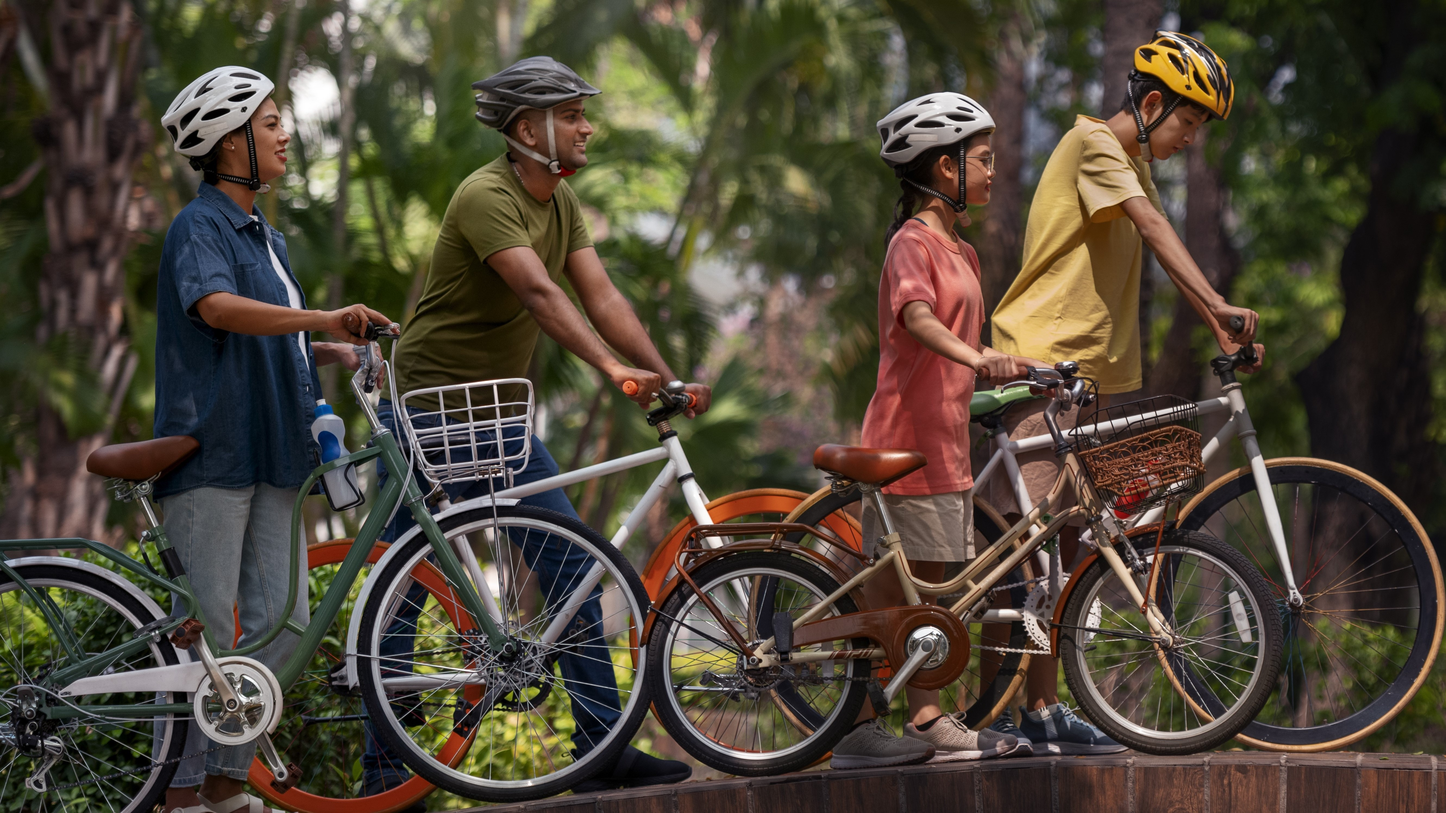
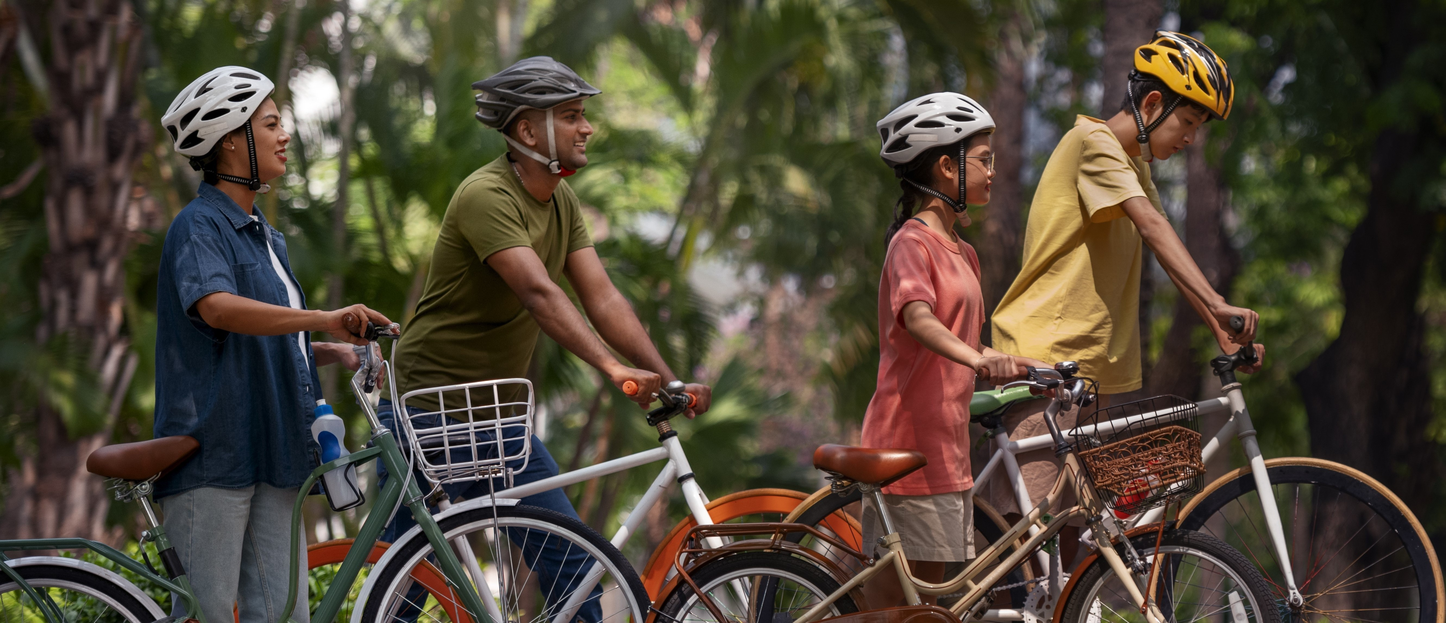
js edit

diff --git a/assets/js/leisure.js b/assets/js/leisure.js
@@ -1,5 +1,14 @@
 // Leisure page JavaScript
 
+// Category mapping for filters
+const categoryMapping = {
+    'all': 'all',
+    'water': 'Water Sports',
+    'adventure': 'Adventure',
+    'crafts': 'Relaxing',
+    'outdoor': 'Outdoor'
+};
+
 let currentLeisurePrice = 0;
 let currentLeisureActivity = '';
 let selectedActivityDate = '';
@@ -51,6 +60,21 @@ function updateLeisureTotal() {
     }
 }
 
+// Filter cards based on selected category
+function filterCards(filter) {
+    const cards = document.querySelectorAll('.col-md-6.col-lg-4.mb-4');
+    const targetCategory = categoryMapping[filter];
+
+    cards.forEach(card => {
+        const cardCategory = card.getAttribute('data-category');
+        if (filter === 'all' || cardCategory === targetCategory) {
+            card.style.display = 'block';
+        } else {
+            card.style.display = 'none';
+        }
+    });
+}
+
 // Initialize leisure page
 document.addEventListener('DOMContentLoaded', function() {
     // Update total when participants change
@@ -58,6 +82,28 @@ document.addEventListener('DOMContentLoaded', function() {
     if (participantsSelect) {
         participantsSelect.addEventListener('change', updateLeisureTotal);
     }
+
+    // Add event listeners to filter buttons
+    const filterButtons = document.querySelectorAll('[data-filter]');
+    filterButtons.forEach(button => {
+        button.addEventListener('click', function() {
+            // Remove active class from all buttons
+            filterButtons.forEach(btn => {
+                btn.classList.remove('active');
+                btn.classList.add('btn-outline-primary');
+                btn.classList.remove('btn-primary');
+            });
+
+            // Add active class to clicked button
+            this.classList.add('active');
+            this.classList.remove('btn-outline-primary');
+            this.classList.add('btn-primary');
+
+            // Filter cards
+            const filter = this.getAttribute('data-filter');
+            filterCards(filter);
+        });
+    });
 });
 
 // Add leisure to cart

diff --git a/pages/leisure.php b/pages/leisure.php
@@ -37,99 +37,110 @@
             color: #198754;
             width: 20px;
         }
+        /* Hero container */
+        .hero {
+            position: relative;
+        }
+
+        /* Make carousel images cover and have responsive heights */
+        .hero .carousel-inner img {
+            width: 100%;
+            height: 75vh;              /* desktop/tablet default */
+            object-fit: cover;
+        }
+        @media (max-width: 768px) {
+            .hero .carousel-inner img {
+            height: 40vh;            /* smaller height for phones */
+            }
+        }
+
+        /* Overlay panel centered on the images */
+        .hero-overlay {
+            position: absolute;
+            top: 50%;
+            left: 50%;
+            transform: translate(-50%, -50%);
+            z-index: 10;
+            width: calc(100% - 2rem);
+            max-width: 980px;
+            padding: 1rem 1.25rem;
+            border-radius: 0.5rem;
+            text-align: center;
+        }
+
+        /* Responsive title and subtitle using clamp() */
+        .hero-title {
+            color: #fff;
+            margin: 0;
+            font-weight: 700;
+            line-height: 1.05;
+            font-size: clamp(1.4rem, 6vw, 2.8rem); /* scales between phone and desktop */
+        }
+
+        .hero-sub {
+            color: #fff;
+            margin-top: 0.5rem;
+            font-size: clamp(0.95rem, 3.5vw, 1.25rem);
+        }
+
+        /* Slight shadow for carousel controls so they remain visible */
+        .carousel-control-prev-icon,
+        .carousel-control-next-icon {
+            filter: drop-shadow(0 2px 4px rgba(0,0,0,0.5));
+        }
+
+        /* Optional: reduce overlay padding on very small screens */
+        @media (max-width: 400px) {
+            .hero-overlay {
+            padding: 0.6rem 0.8rem;
+            }
+        }
     </style>
 </head>
 <body>
     <?php include '../includes/navbar.php'; ?>
     
-    <!-- Hero Section -->
-    <section id="carouselExampleAutoplaying" class="carousel slide" data-bs-ride="carousel">
-        <div class="carousel-inner">
-            <div class="carousel-item active">
-                <img src="../assets/images/leisure/1.jpg" class="d-block w-100 vh-50" alt="boat ride">
-                <div class="carousel-caption position-absolute top-50 start-50 translate-middle w-75">
-                    <div class="text-center">
-                        <h1 class="display-4 fw-bold mb-3 d-none d-md-block">
-                            <i class="fas fa-umbrella-beach"></i>Leisure Activities
-                        </h1>
-                        <h2 class="fw-bold mb-2 d-md-none">
-                            <i class="fas fa-umbrella-beach"></i>Leisure Activities
-                        </h2>
-                        <p class="lead mb-4 d-none d-md-block">Book exciting adventures and leisure activities</p>
-                        <p class="mb-3 d-md-none">Book exciting adventures and leisure activities</p>
-                    </div>
-                </div>
-            </div>
-            <div class="carousel-item">
-                <img src="../assets/images/leisure/2.jpg" class="d-block w-100 vh-50" alt="Cycling">
-                <div class="carousel-caption position-absolute top-50 start-50 translate-middle w-75">
-                    <div class="text-center">
-                        <h1 class="display-4 fw-bold mb-3 d-none d-md-block">
-                            <i class="fas fa-umbrella-beach"></i>Leisure Activities
-                        </h1>
-                        <h2 class="fw-bold mb-2 d-md-none">
-                            <i class="fas fa-umbrella-beach"></i>Leisure Activities
-                        </h2>
-                        <p class="lead mb-4 d-none d-md-block">Book exciting adventures and leisure activities</p>
-                        <p class="mb-3 d-md-none">Book exciting adventures and leisure activities</p>
-                    </div>
-                </div>
-            </div>
-            <div class="carousel-item">
-                <img src="../assets/images/leisure/3.jpg" class="d-block w-100 vh-50" alt="Camping">
-                <div class="carousel-caption position-absolute top-50 start-50 translate-middle w-75">
-                    <div class="text-center">
-                        <h1 class="display-4 fw-bold mb-3 d-none d-md-block">
-                            <i class="fas fa-umbrella-beach"></i>Leisure Activities
-                        </h1>
-                        <h2 class="fw-bold mb-2 d-md-none">
-                            <i class="fas fa-umbrella-beach"></i>Leisure Activities
-                        </h2>
-                        <p class="lead mb-4 d-none d-md-block">Book exciting adventures and leisure activities</p>
-                        <p class="mb-3 d-md-none">Book exciting adventures and leisure activities</p>
-                    </div>
-                </div>
-            </div>
-            <div class="carousel-item">
-                <img src="../assets/images/leisure/4.jpg" class="d-block w-100 vh-50" alt="Walking">
-                <div class="carousel-caption position-absolute top-50 start-50 translate-middle w-75">
-                    <div class="text-center">
-                        <h1 class="display-4 fw-bold mb-3 d-none d-md-block">
-                            <i class="fas fa-umbrella-beach"></i>Leisure Activities
-                        </h1>
-                        <h2 class="fw-bold mb-2 d-md-none">
-                            <i class="fas fa-umbrella-beach"></i>Leisure Activities
-                        </h2>
-                        <p class="lead mb-4 d-none d-md-block">Book exciting adventures and leisure activities</p>
-                        <p class="mb-3 d-md-none">Book exciting adventures and leisure activities</p>
-                    </div>
-                </div>
-            </div>
-            <div class="carousel-item">
-                <img src="../assets/images/leisure/5.jpg" class="d-block w-100 vh-50" alt="Surfing">
-                <div class="carousel-caption position-absolute top-50 start-50 translate-middle w-75">
-                    <div class="text-center">
-                        <h1 class="display-4 fw-bold mb-3 d-none d-md-block">
-                            <i class="fas fa-umbrella-beach"></i>Leisure Activities
-                        </h1>
-                        <h2 class="fw-bold mb-2 d-md-none">
-                            <i class="fas fa-umbrella-beach"></i>Leisure Activities
-                        </h2>
-                        <p class="lead mb-4 d-none d-md-block">Book exciting adventures and leisure activities</p>
-                        <p class="mb-3 d-md-none">Book exciting adventures and leisure activities</p>
-                    </div>
-                </div>
-            </div>
-        </div>
-        <button class="carousel-control-prev" type="button" data-bs-target="#carouselExampleAutoplaying" data-bs-slide="prev">
-            <span class="carousel-control-prev-icon" aria-hidden="true"></span>
-            <span class="visually-hidden">Previous</span>
-        </button>
-        <button class="carousel-control-next" type="button" data-bs-target="#carouselExampleAutoplaying" data-bs-slide="next">
-            <span class="carousel-control-next-icon" aria-hidden="true"></span>
-            <span class="visually-hidden">Next</span>
-        </button>
-    </section>
+<!-- Hero Section -->
+<div class="hero">
+  <!-- Overlay (text inside the image box) -->
+    <div class="hero-overlay text-white">
+        <h1 class="hero-title">
+        <i class="fas fa-umbrella-beach"></i>  Leisure Activities
+        </h1>
+        <p class="hero-sub">Book exciting adventures and leisure activities</p>
+    </div>
+
+  <!-- Carousel -->
+  <div id="carouselExampleAutoplaying" class="carousel slide" data-bs-ride="carousel">
+    <div class="carousel-inner">
+      <div class="carousel-item active">
+        <img src="../assets/images/leisure/1.jpg" class="d-block w-100" alt="...">
+      </div>
+      <div class="carousel-item">
+        <img src="../assets/images/leisure/2.jpg" class="d-block w-100" alt="...">
+      </div>
+      <div class="carousel-item">
+        <img src="../assets/images/leisure/3.jpg" class="d-block w-100" alt="...">
+      </div>
+      <div class="carousel-item">
+        <img src="../assets/images/leisure/4.jpg" class="d-block w-100" alt="...">
+      </div>
+      <div class="carousel-item">
+        <img src="../assets/images/leisure/5.jpg" class="d-block w-100" alt="...">
+      </div>
+    </div>
+
+    <button class="carousel-control-prev" type="button" data-bs-target="#carouselExampleAutoplaying" data-bs-slide="prev">
+      <span class="carousel-control-prev-icon" aria-hidden="true"></span>
+      <span class="visually-hidden">Previous</span>
+    </button>
+
+    <button class="carousel-control-next" type="button" data-bs-target="#carouselExampleAutoplaying" data-bs-slide="next">
+      <span class="carousel-control-next-icon" aria-hidden="true"></span>
+      <span class="visually-hidden">Next</span>
+    </button>
+  </div>
+</div>
 
     <!-- Filter Section -->
     <section class="py-4 bg-light">
